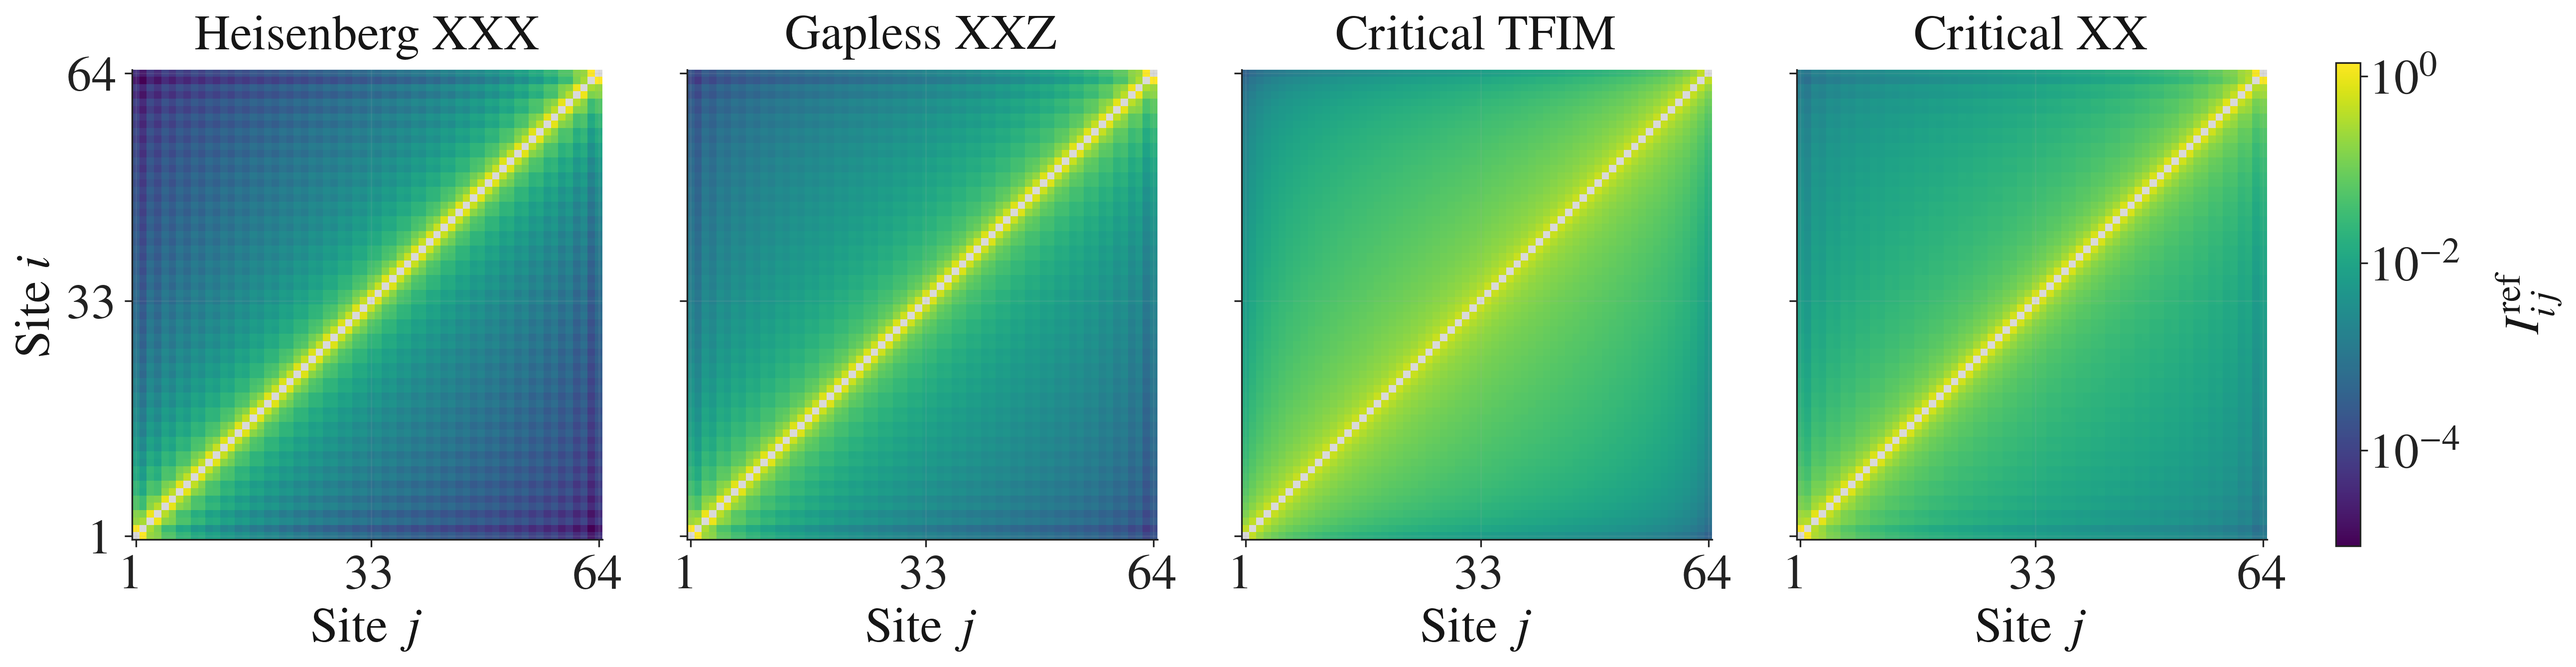
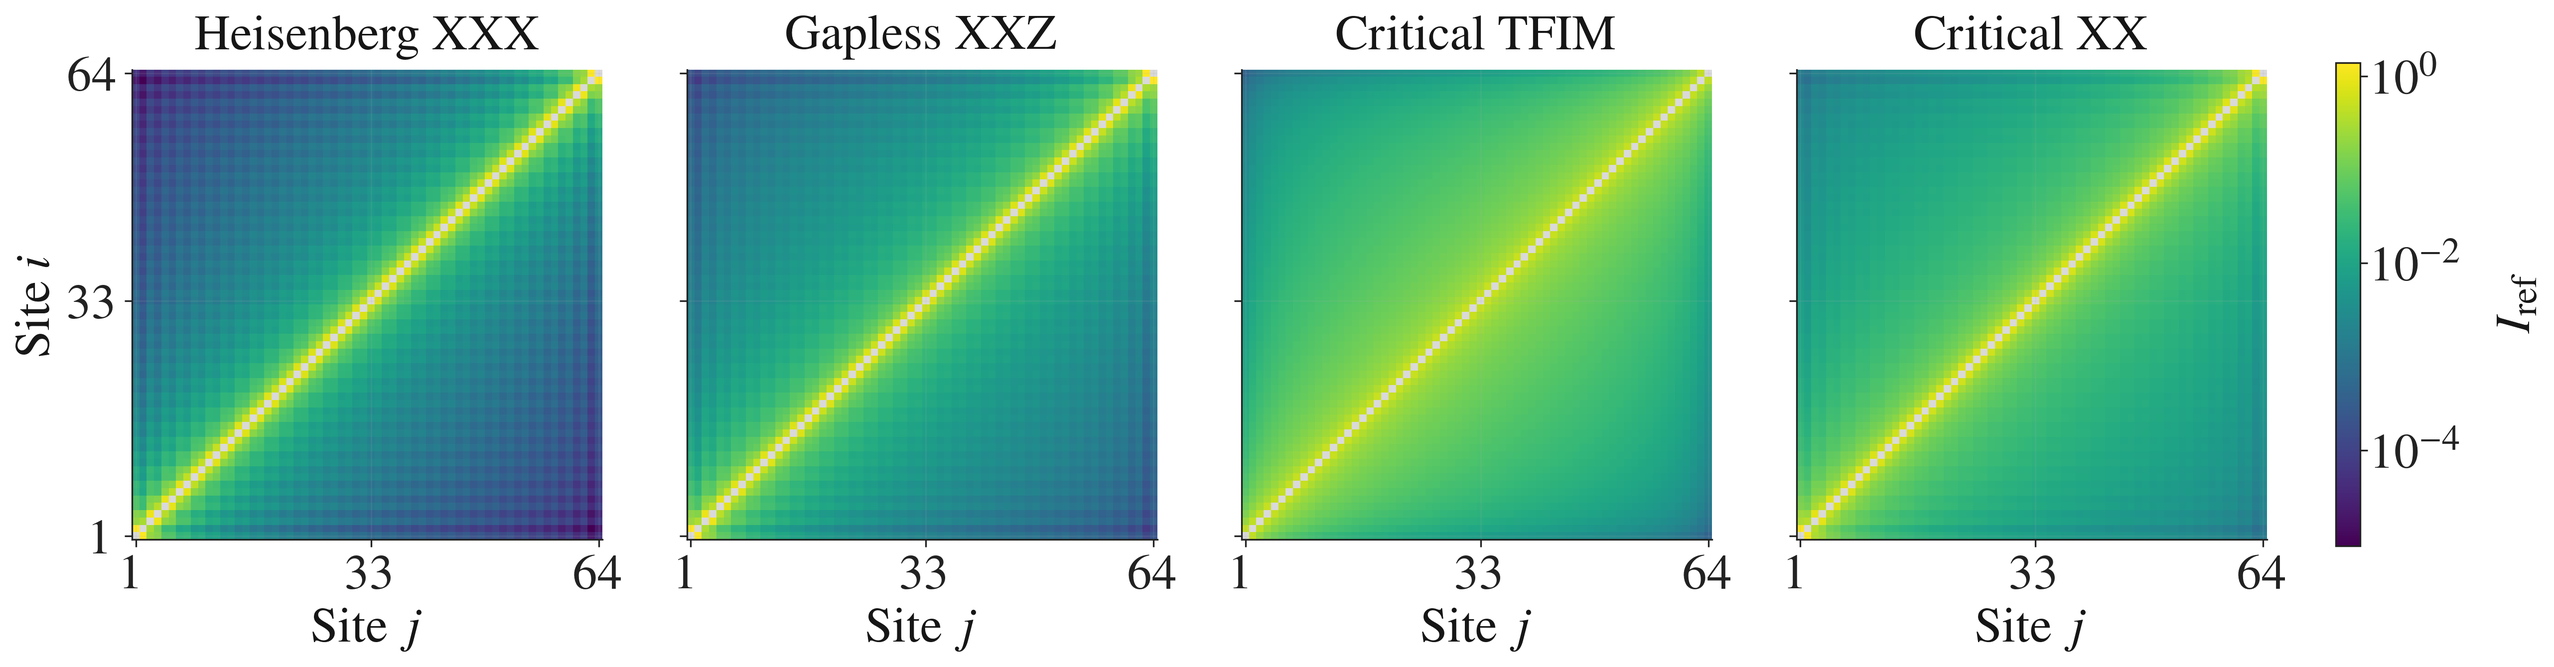
Shorten TN reference colorbar label

diff --git a/figs/tn/make_mutual_information_exact_figure.py b/figs/tn/make_mutual_information_exact_figure.py
@@ -104,7 +104,7 @@ def main():
 
     fig.subplots_adjust(left=0.07, right=0.90, bottom=0.20, top=0.86, wspace=0.18)
     cbar = fig.colorbar(image, ax=axes, fraction=0.045, pad=0.03)
-    cbar.set_label(r"$I_{ij}^{\mathrm{ref}}$", labelpad=14)
+    cbar.set_label(r"$I_{\mathrm{ref}}$", labelpad=14)
     cbar.ax.tick_params(labelsize=24)
 
     fig.savefig(OUTPUT_PDF, bbox_inches="tight")
